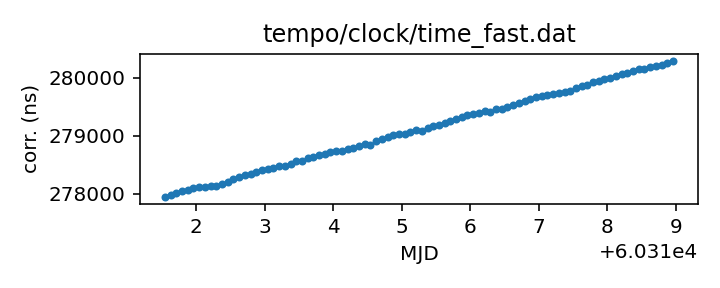
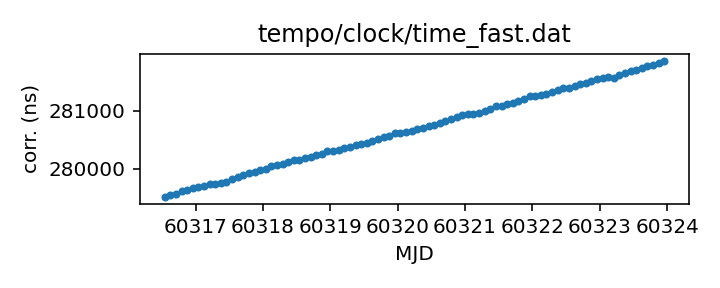
Routine gh-pages update from Github action Thu Jan 18 20:30:36 UTC 2024

diff --git a/status.md b/status.md
@@ -13,17 +13,17 @@ name of each clock file links to a page with more details.
 
 | Name | File | Corrections start | Corrections end | Last check date | Last check result 
 |:--- |:--- | --- | --- | --- |:--- 
-| [GPS to UTC](T2runtime/clock/gps2utc.clk.html) | `T2runtime/clock/gps2utc.clk` | 1993-01-01 MJD 48988.0 | 2023-12-31 MJD 60309.0 | 2024-01-17 | Unchanged 
-| [GPS to UTC (Combined Clock)](T2runtime/clock/gps2utc_cc.clk.html) | `T2runtime/clock/gps2utc_cc.clk` | 1993-01-01 MJD 48988.0 | 2023-12-31 MJD 60309.0 | 2024-01-17 | Unchanged 
-| [GPS to UTC (Corrected)](T2runtime/clock/gps2utc_c0p.clk.html) | `T2runtime/clock/gps2utc_c0p.clk` | 2010-12-29 MJD 55559.0 | 2023-12-31 MJD 60309.0 | 2024-01-17 | Unchanged 
-| [GBT](tempo/clock/time_gbt.dat.html) | `tempo/clock/time_gbt.dat` | 2000-12-31 MJD 51909.5 | 2023-03-20 MJD 60023.5 | 2024-01-17 | **Validation failed** 
+| [GPS to UTC](T2runtime/clock/gps2utc.clk.html) | `T2runtime/clock/gps2utc.clk` | 1993-01-01 MJD 48988.0 | 2023-12-31 MJD 60309.0 | 2024-01-18 | Unchanged 
+| [GPS to UTC (Combined Clock)](T2runtime/clock/gps2utc_cc.clk.html) | `T2runtime/clock/gps2utc_cc.clk` | 1993-01-01 MJD 48988.0 | 2023-12-31 MJD 60309.0 | 2024-01-18 | Unchanged 
+| [GPS to UTC (Corrected)](T2runtime/clock/gps2utc_c0p.clk.html) | `T2runtime/clock/gps2utc_c0p.clk` | 2010-12-29 MJD 55559.0 | 2023-12-31 MJD 60309.0 | 2024-01-18 | Unchanged 
+| [GBT](tempo/clock/time_gbt.dat.html) | `tempo/clock/time_gbt.dat` | 2000-12-31 MJD 51909.5 | 2023-03-20 MJD 60023.5 | 2024-01-18 | **Validation failed** 
 | [GBT (TEMPO2 converted from TEMPO)](T2runtime/clock/gbt2gps.clk.html) | `T2runtime/clock/gbt2gps.clk` | 2000-12-31 MJD 51909.5 | 2023-03-20 MJD 60023.5 | 2023-03-21 | Updated 
-| [Jodrell Bank](T2runtime/clock/jb2gps.clk.html) | `T2runtime/clock/jb2gps.clk` | 2006-10-13 MJD 54021.4 | 2023-12-04 MJD 60282.0 | 2024-01-11 | Unchanged 
-| [Jodrell Bank Roach](T2runtime/clock/jbroach2jb.clk.html) | `T2runtime/clock/jbroach2jb.clk` | 2006-10-13 MJD 54021.4 | 2018-03-20 MJD 58197.6 | 2024-01-11 | Unchanged 
-| [Jodrell Bank DFB](T2runtime/clock/jbdfb2jb.clk.html) | `T2runtime/clock/jbdfb2jb.clk` | 2006-10-13 MJD 54021.4 | 2017-05-11 MJD 57884.0 | 2024-01-11 | Unchanged 
-| [Meerkat (observatory)](T2runtime/clock/mk2utc_observatory.clk.html) | `T2runtime/clock/mk2utc_observatory.clk` | 2019-01-01 MJD 58484.0 | 2023-12-28 MJD 60307.0 | 2024-01-11 | Unchanged 
-| [Leap seconds](tempo/clock/leap.sec.html) | `tempo/clock/leap.sec` | 1972-07-01 MJD 41499.0 | 2017-01-01 MJD 57754.0 | 2024-01-17 | Unchanged 
-| [UT1 table](tempo/clock/ut1.dat.html) | `tempo/clock/ut1.dat` | 1973-01-02 MJD 41684.0 | 2025-01-18 MJD 60693.0 | 2024-01-17 | Unchanged 
+| [Jodrell Bank](T2runtime/clock/jb2gps.clk.html) | `T2runtime/clock/jb2gps.clk` | 2006-10-13 MJD 54021.4 | 2023-12-04 MJD 60282.0 | 2024-01-18 | Unchanged 
+| [Jodrell Bank Roach](T2runtime/clock/jbroach2jb.clk.html) | `T2runtime/clock/jbroach2jb.clk` | 2006-10-13 MJD 54021.4 | 2018-03-20 MJD 58197.6 | 2024-01-18 | Unchanged 
+| [Jodrell Bank DFB](T2runtime/clock/jbdfb2jb.clk.html) | `T2runtime/clock/jbdfb2jb.clk` | 2006-10-13 MJD 54021.4 | 2017-05-11 MJD 57884.0 | 2024-01-18 | Unchanged 
+| [Meerkat (observatory)](T2runtime/clock/mk2utc_observatory.clk.html) | `T2runtime/clock/mk2utc_observatory.clk` | 2019-01-01 MJD 58484.0 | 2023-12-28 MJD 60307.0 | 2024-01-18 | Unchanged 
+| [Leap seconds](tempo/clock/leap.sec.html) | `tempo/clock/leap.sec` | 1972-07-01 MJD 41499.0 | 2017-01-01 MJD 57754.0 | 2024-01-18 | Unchanged 
+| [UT1 table](tempo/clock/ut1.dat.html) | `tempo/clock/ut1.dat` | 1973-01-02 MJD 41684.0 | 2025-01-25 MJD 60700.0 | 2024-01-18 | Updated 
 
 
 
@@ -65,24 +65,24 @@ name of each clock file links to a page with more details.
 
 | Name | File | Corrections start | Corrections end | Last check date | Last check result 
 |:--- |:--- | --- | --- | --- |:--- 
-| [GPS to UTC (TEMPO2)](T2runtime/clock/gps2utc_tempo2.clk.html) | `T2runtime/clock/gps2utc_tempo2.clk` | 1996-03-27 MJD 50169.0 | 2022-10-27 MJD 59879.0 | 2024-01-11 | Unchanged 
-| [GBT (TEMPO2)](T2runtime/clock/gbt2gps_tempo2.clk.html) | `T2runtime/clock/gbt2gps_tempo2.clk` | 2000-12-31 MJD 51909.5 | 2020-02-25 MJD 58904.5 | 2024-01-11 | Unchanged 
-| [Jodrell Bank (TEMPO)](tempo/clock/time_jb.dat.html) | `tempo/clock/time_jb.dat` | 2006-10-13 MJD 54021.4 | 2019-05-13 MJD 58616.2 | 2024-01-11 | Unchanged 
-| [VLA](tempo/clock/time_vla.dat.html) | `tempo/clock/time_vla.dat` | 1990-10-27 MJD 48191.2 | 2021-03-07 MJD 59280.5 | 2024-01-11 | Unchanged 
-| [VLA (TEMPO2)](T2runtime/clock/vla2gps.clk.html) | `T2runtime/clock/vla2gps.clk` | 2015-02-01 MJD 57054.6 | 2021-03-07 MJD 59280.5 | 2024-01-11 | Unchanged 
-| [VLA to NIST](T2runtime/clock/vla2nist.clk.html) | `T2runtime/clock/vla2nist.clk` | 1990-10-27 MJD 48191.2 | 1993-11-13 MJD 49304.0 | 2024-01-11 | Unchanged 
-| [FAST](tempo/clock/time_fast.dat.html) | `tempo/clock/time_fast.dat` | 2017-07-27 MJD 57961.0 | 2024-01-09 MJD 60319.0 | 2024-01-11 | Updated 
-| [WSRT](T2runtime/clock/wsrt2gps.clk.html) | `T2runtime/clock/wsrt2gps.clk` | 1999-01-01 MJD 51179.5 | 2015-06-29 MJD 57202.1 | 2024-01-11 | Unchanged 
-| [WSRT (TEMPO)](tempo/clock/time_wsrt.dat.html) | `tempo/clock/time_wsrt.dat` | 1987-07-24 MJD 47000.0 | 2007-12-24 MJD 54458.0 | 2024-01-11 | **Validation failed** 
-| [Parkes](T2runtime/clock/pks2gps.clk.html) | `T2runtime/clock/pks2gps.clk` | 1858-11-17 MJD 0.0 | 2023-11-30 MJD 60278.1 | 2024-01-11 | Unchanged 
-| [Parkes (TEMPO)](tempo/clock/time_pks.dat.html) | `tempo/clock/time_pks.dat` | 1979-05-07 MJD 44000.0 | 2011-07-03 MJD 55745.8 | 2024-01-11 | **Validation failed** 
-| [SRT](T2runtime/clock/srt2gps.clk.html) | `T2runtime/clock/srt2gps.clk` | 2013-03-20 MJD 56371.0 | 2019-12-11 MJD 58828.0 | 2024-01-11 | Unchanged 
-| [Effelsberg](T2runtime/clock/eff2gps.clk.html) | `T2runtime/clock/eff2gps.clk` | 1993-11-29 MJD 49320.0 | 2015-06-22 MJD 57195.5 | 2024-01-11 | Unchanged 
-| [Effelsberg Asterix/PSRix](T2runtime/clock/effix2gps.clk.html) | `T2runtime/clock/effix2gps.clk` | 2011-01-01 MJD 55562.5 | 2021-03-21 MJD 59294.5 | 2024-01-11 | Unchanged 
-| [LEAP](T2runtime/clock/leap2effix.clk.html) | `T2runtime/clock/leap2effix.clk` | 2012-10-29 MJD 56230.0 | 2014-03-04 MJD 56720.0 | 2024-01-11 | Unchanged 
-| [NUPPI](tempo/clock/time_nuppi.dat.html) | `tempo/clock/time_nuppi.dat` | 2005-03-07 MJD 53436.0 | 2015-11-08 MJD 57334.6 | 2024-01-11 | Unchanged 
+| [GPS to UTC (TEMPO2)](T2runtime/clock/gps2utc_tempo2.clk.html) | `T2runtime/clock/gps2utc_tempo2.clk` | 1996-03-27 MJD 50169.0 | 2022-10-27 MJD 59879.0 | 2024-01-18 | Unchanged 
+| [GBT (TEMPO2)](T2runtime/clock/gbt2gps_tempo2.clk.html) | `T2runtime/clock/gbt2gps_tempo2.clk` | 2000-12-31 MJD 51909.5 | 2020-02-25 MJD 58904.5 | 2024-01-18 | Unchanged 
+| [Jodrell Bank (TEMPO)](tempo/clock/time_jb.dat.html) | `tempo/clock/time_jb.dat` | 2006-10-13 MJD 54021.4 | 2019-05-13 MJD 58616.2 | 2024-01-18 | Unchanged 
+| [VLA](tempo/clock/time_vla.dat.html) | `tempo/clock/time_vla.dat` | 1990-10-27 MJD 48191.2 | 2021-03-07 MJD 59280.5 | 2024-01-18 | Unchanged 
+| [VLA (TEMPO2)](T2runtime/clock/vla2gps.clk.html) | `T2runtime/clock/vla2gps.clk` | 2015-02-01 MJD 57054.6 | 2021-03-07 MJD 59280.5 | 2024-01-18 | Unchanged 
+| [VLA to NIST](T2runtime/clock/vla2nist.clk.html) | `T2runtime/clock/vla2nist.clk` | 1990-10-27 MJD 48191.2 | 1993-11-13 MJD 49304.0 | 2024-01-18 | Unchanged 
+| [FAST](tempo/clock/time_fast.dat.html) | `tempo/clock/time_fast.dat` | 2017-07-27 MJD 57961.0 | 2024-01-14 MJD 60324.0 | 2024-01-18 | Updated 
+| [WSRT](T2runtime/clock/wsrt2gps.clk.html) | `T2runtime/clock/wsrt2gps.clk` | 1999-01-01 MJD 51179.5 | 2015-06-29 MJD 57202.1 | 2024-01-18 | Unchanged 
+| [WSRT (TEMPO)](tempo/clock/time_wsrt.dat.html) | `tempo/clock/time_wsrt.dat` | 1987-07-24 MJD 47000.0 | 2007-12-24 MJD 54458.0 | 2024-01-18 | **Validation failed** 
+| [Parkes](T2runtime/clock/pks2gps.clk.html) | `T2runtime/clock/pks2gps.clk` | 1858-11-17 MJD 0.0 | 2023-11-30 MJD 60278.1 | 2024-01-18 | Unchanged 
+| [Parkes (TEMPO)](tempo/clock/time_pks.dat.html) | `tempo/clock/time_pks.dat` | 1979-05-07 MJD 44000.0 | 2011-07-03 MJD 55745.8 | 2024-01-18 | **Validation failed** 
+| [SRT](T2runtime/clock/srt2gps.clk.html) | `T2runtime/clock/srt2gps.clk` | 2013-03-20 MJD 56371.0 | 2019-12-11 MJD 58828.0 | 2024-01-18 | Unchanged 
+| [Effelsberg](T2runtime/clock/eff2gps.clk.html) | `T2runtime/clock/eff2gps.clk` | 1993-11-29 MJD 49320.0 | 2015-06-22 MJD 57195.5 | 2024-01-18 | Unchanged 
+| [Effelsberg Asterix/PSRix](T2runtime/clock/effix2gps.clk.html) | `T2runtime/clock/effix2gps.clk` | 2011-01-01 MJD 55562.5 | 2021-03-21 MJD 59294.5 | 2024-01-18 | Unchanged 
+| [LEAP](T2runtime/clock/leap2effix.clk.html) | `T2runtime/clock/leap2effix.clk` | 2012-10-29 MJD 56230.0 | 2014-03-04 MJD 56720.0 | 2024-01-18 | Unchanged 
+| [NUPPI](tempo/clock/time_nuppi.dat.html) | `tempo/clock/time_nuppi.dat` | 2005-03-07 MJD 53436.0 | 2015-11-08 MJD 57334.6 | 2024-01-18 | Unchanged 
 | [Meerkat (TEMPO2)](T2runtime/clock/mk2utc.clk.html) | `T2runtime/clock/mk2utc.clk` | 2019-01-01 MJD 58484.0 | 2023-10-18 MJD 60235.9 | 2024-01-15 | Unchanged 
-| [MOST](T2runtime/clock/mo2gps.clk.html) | `T2runtime/clock/mo2gps.clk` | 2003-12-27 MJD 53000.0 | 2018-09-06 MJD 58367.0 | 2024-01-11 | Unchanged 
+| [MOST](T2runtime/clock/mo2gps.clk.html) | `T2runtime/clock/mo2gps.clk` | 2003-12-27 MJD 53000.0 | 2018-09-06 MJD 58367.0 | 2024-01-18 | Unchanged 
 | [Nancay to obspm](T2runtime/clock/ncyobs2obspm.clk.html) | `T2runtime/clock/ncyobs2obspm.clk` | 1988-05-18 MJD 47299.6 | 2023-10-27 MJD 60244.0 | 2024-01-17 | Unchanged 
 | [obspm](T2runtime/clock/obspm2gps.clk.html) | `T2runtime/clock/obspm2gps.clk` | 2003-12-01 MJD 52974.0 | 2023-10-27 MJD 60244.0 | 2024-01-17 | Unchanged 
 

diff --git a/tempo/clock/time_pks.dat.md b/tempo/clock/time_pks.dat.md
@@ -20,12 +20,11 @@ telescopes in the same file, distinguished only by observatory code.
 | Clock file start | 1979-05-07 MJD 44000.0 |
 | Clock file end | 2011-07-03 MJD 55745.8 |
 | Update interval (days) | 7 |
-| Last update attempt | 2024-01-11 |
+| Last update attempt | 2024-01-18 |
 | Last update result | Validation failed |
 
 Log entries from the last few update attempts:
 ```
-2023-03-16 20:29:09.497 - Validation failed: Unable to read new version of tempo/clock/time_pks.dat: Clock file /tmp/astropy-download-1726-u716fwx7 appears to be out of order
 2023-03-23 20:27:47.249 - Validation failed: Unable to read new version of tempo/clock/time_pks.dat: Clock file /tmp/astropy-download-1727-75z30o3m appears to be out of order
 2023-03-30 20:27:43.704 - Validation failed: Unable to read new version of tempo/clock/time_pks.dat: Clock file /tmp/astropy-download-1765-h_b0h6bx appears to be out of order
 2023-04-06 20:26:12.085 - Validation failed: Unable to read new version of tempo/clock/time_pks.dat: Clock file /tmp/astropy-download-1741-fn3chtxf appears to be out of order
@@ -35,6 +34,7 @@ Log entries from the last few update attempts:
 2023-12-28 20:29:30.527 - Validation failed: Unable to read new version of tempo/clock/time_pks.dat: Clock file /tmp/astropy-download-1937-p5sqsqze appears to be out of order
 2024-01-04 20:29:28.434 - Validation failed: Unable to read new version of tempo/clock/time_pks.dat: Clock file /tmp/astropy-download-1932-d4kgqvo7 appears to be out of order
 2024-01-11 20:30:15.803 - Validation failed: Unable to read new version of tempo/clock/time_pks.dat: Clock file /tmp/astropy-download-1836-pi4hbxxj appears to be out of order
+2024-01-18 20:29:59.171 - Validation failed: Unable to read new version of tempo/clock/time_pks.dat: Clock file /tmp/astropy-download-1811-rrpdm8ca appears to be out of order
 ```
 [Full log](https://raw.githubusercontent.com/ipta/pulsar-clock-corrections/main/log/tempo/clock/time_pks.dat.log)
 

diff --git a/tempo/clock/time_wsrt.dat.md b/tempo/clock/time_wsrt.dat.md
@@ -20,12 +20,11 @@ should be the same information.
 | Clock file start | 1987-07-24 MJD 47000.0 |
 | Clock file end | 2007-12-24 MJD 54458.0 |
 | Update interval (days) | 7 |
-| Last update attempt | 2024-01-11 |
+| Last update attempt | 2024-01-18 |
 | Last update result | Validation failed |
 
 Log entries from the last few update attempts:
 ```
-2023-03-16 20:29:08.574 - Validation failed: Unable to read new version of tempo/clock/time_wsrt.dat: Clock file /tmp/astropy-download-1726-9go2yp7d appears to be out of order
 2023-03-23 20:27:46.835 - Validation failed: Unable to read new version of tempo/clock/time_wsrt.dat: Clock file /tmp/astropy-download-1727-rkn_otsr appears to be out of order
 2023-03-30 20:27:43.374 - Validation failed: Unable to read new version of tempo/clock/time_wsrt.dat: Clock file /tmp/astropy-download-1765-6yf73jao appears to be out of order
 2023-04-06 20:26:11.700 - Validation failed: Unable to read new version of tempo/clock/time_wsrt.dat: Clock file /tmp/astropy-download-1741-ko2umq5t appears to be out of order
@@ -35,6 +34,7 @@ Log entries from the last few update attempts:
 2023-12-28 20:29:25.846 - Validation failed: Unable to read new version of tempo/clock/time_wsrt.dat: Clock file /tmp/astropy-download-1937-w51qchpk appears to be out of order
 2024-01-04 20:29:23.796 - Validation failed: Unable to read new version of tempo/clock/time_wsrt.dat: Clock file /tmp/astropy-download-1932-fzypdoq9 appears to be out of order
 2024-01-11 20:30:10.381 - Validation failed: Unable to read new version of tempo/clock/time_wsrt.dat: Clock file /tmp/astropy-download-1836-0nvh625l appears to be out of order
+2024-01-18 20:29:55.192 - Validation failed: Unable to read new version of tempo/clock/time_wsrt.dat: Clock file /tmp/astropy-download-1811-4vnrq20h appears to be out of order
 ```
 [Full log](https://raw.githubusercontent.com/ipta/pulsar-clock-corrections/main/log/tempo/clock/time_wsrt.dat.log)
 

diff --git a/tempo/clock/time_gbt.dat.md b/tempo/clock/time_gbt.dat.md
@@ -20,12 +20,11 @@ If questions arise, contact Ryan S. Lynch <rlynch@nrao.edu>.
 | Clock file start | 2000-12-31 MJD 51909.5 |
 | Clock file end | 2023-03-20 MJD 60023.5 |
 | Update interval (days) | 1 |
-| Last update attempt | 2024-01-17 |
+| Last update attempt | 2024-01-18 |
 | Last update result | Validation failed |
 
 Log entries from the last few update attempts:
 ```
-2024-01-08 20:29:51.024 - Validation failed: New version of tempo/clock/time_gbt.dat clock corrections differ from old version where they overlap in 11 places
 2024-01-09 20:29:18.779 - Validation failed: New version of tempo/clock/time_gbt.dat clock corrections differ from old version where they overlap in 11 places
 2024-01-10 20:29:35.153 - Validation failed: New version of tempo/clock/time_gbt.dat clock corrections differ from old version where they overlap in 11 places
 2024-01-11 20:30:04.668 - Validation failed: New version of tempo/clock/time_gbt.dat clock corrections differ from old version where they overlap in 11 places
@@ -35,6 +34,7 @@ Log entries from the last few update attempts:
 2024-01-15 20:29:53.885 - Validation failed: New version of tempo/clock/time_gbt.dat clock corrections differ from old version where they overlap in 11 places
 2024-01-16 20:29:37.983 - Validation failed: New version of tempo/clock/time_gbt.dat clock corrections differ from old version where they overlap in 11 places
 2024-01-17 20:29:47.115 - Validation failed: New version of tempo/clock/time_gbt.dat clock corrections differ from old version where they overlap in 11 places
+2024-01-18 20:29:50.315 - Validation failed: New version of tempo/clock/time_gbt.dat clock corrections differ from old version where they overlap in 11 places
 ```
 [Full log](https://raw.githubusercontent.com/ipta/pulsar-clock-corrections/main/log/tempo/clock/time_gbt.dat.log)
 

diff --git a/tempo/clock/time_fast.dat.md b/tempo/clock/time_fast.dat.md
@@ -14,14 +14,13 @@ This file is pulled from the FAST_ClockFile repository.
 | Format | tempo |
 | Bogus last correction | False |
 | Clock file start | 2017-07-27 MJD 57961.0 |
-| Clock file end | 2024-01-09 MJD 60319.0 |
+| Clock file end | 2024-01-14 MJD 60324.0 |
 | Update interval (days) | 7 |
-| Last update attempt | 2024-01-11 |
+| Last update attempt | 2024-01-18 |
 | Last update result | Updated |
 
 Log entries from the last few update attempts:
 ```
-2023-03-16 20:29:07.910 - Failed to download: HTTP Error 404: Not Found
 2023-03-23 20:27:45.848 - Failed to download: HTTP Error 404: Not Found
 2023-03-30 20:27:42.186 - Failed to download: HTTP Error 404: Not Found
 2023-04-06 20:26:10.143 - Failed to download: HTTP Error 404: Not Found
@@ -31,6 +30,7 @@ Log entries from the last few update attempts:
 2023-12-28 20:29:25.400 - Updated
 2024-01-04 20:29:23.424 - Updated
 2024-01-11 20:30:09.582 - Updated
+2024-01-18 20:29:54.505 - Updated
 ```
 [Full log](https://raw.githubusercontent.com/ipta/pulsar-clock-corrections/main/log/tempo/clock/time_fast.dat.log)
 

diff --git a/tempo/clock/ut1.dat.md b/tempo/clock/ut1.dat.md
@@ -28,14 +28,13 @@ If there are any questions, contact Anne Archibald
 | File | `tempo/clock/ut1.dat` |
 | Authority | observatory |
 | File start | 1973-01-02 MJD 41684.0 |
-| File end | 2025-01-18 MJD 60693.0 |
+| File end | 2025-01-25 MJD 60700.0 |
 | Update interval (days) | 0 |
-| Last update attempt | 2024-01-17 |
-| Last update result | Unchanged |
+| Last update attempt | 2024-01-18 |
+| Last update result | Updated |
 
 Log entries from the last few update attempts:
 ```
-2024-01-08 20:30:00.950 - Unchanged
 2024-01-09 20:29:26.793 - Unchanged
 2024-01-10 20:29:44.469 - Unchanged
 2024-01-11 20:30:34.355 - Updated
@@ -45,5 +44,6 @@ Log entries from the last few update attempts:
 2024-01-15 20:30:06.848 - Unchanged
 2024-01-16 20:29:50.002 - Unchanged
 2024-01-17 20:30:00.859 - Unchanged
+2024-01-18 20:30:18.004 - Updated
 ```
 [Full log](https://raw.githubusercontent.com/ipta/pulsar-clock-corrections/main/log/tempo/clock/ut1.dat.log)

diff --git a/tempo/clock/time_vla.dat.md b/tempo/clock/time_vla.dat.md
@@ -17,12 +17,11 @@ up-to-date.
 | Clock file start | 1990-10-27 MJD 48191.2 |
 | Clock file end | 2021-03-07 MJD 59280.5 |
 | Update interval (days) | 7 |
-| Last update attempt | 2024-01-11 |
+| Last update attempt | 2024-01-18 |
 | Last update result | Unchanged |
 
 Log entries from the last few update attempts:
 ```
-2023-03-16 20:29:07.737 - Failed to download: HTTP Error 404: Not Found
 2023-03-23 20:27:45.649 - Failed to download: HTTP Error 404: Not Found
 2023-03-30 20:27:41.991 - Failed to download: HTTP Error 404: Not Found
 2023-04-06 20:26:09.970 - Failed to download: HTTP Error 404: Not Found
@@ -32,6 +31,7 @@ Log entries from the last few update attempts:
 2023-12-28 20:29:21.582 - Unchanged
 2024-01-04 20:29:22.853 - Unchanged
 2024-01-11 20:30:08.080 - Unchanged
+2024-01-18 20:29:53.321 - Unchanged
 ```
 [Full log](https://raw.githubusercontent.com/ipta/pulsar-clock-corrections/main/log/tempo/clock/time_vla.dat.log)
 

diff --git a/T2runtime/clock/gps2utc.clk.md b/T2runtime/clock/gps2utc.clk.md
@@ -32,12 +32,11 @@ about the BIPM's published corrections, contact <tai@bipm.org>.
 | Clock file start | 1993-01-01 MJD 48988.0 |
 | Clock file end | 2023-12-31 MJD 60309.0 |
 | Update interval (days) | 1 |
-| Last update attempt | 2024-01-17 |
+| Last update attempt | 2024-01-18 |
 | Last update result | Unchanged |
 
 Log entries from the last few update attempts:
 ```
-2024-01-08 20:29:50.392 - Unchanged
 2024-01-09 20:29:18.350 - Unchanged
 2024-01-10 20:29:34.541 - Unchanged
 2024-01-11 20:29:50.130 - Failed to download: <urlopen error timed out>
@@ -47,6 +46,7 @@ Log entries from the last few update attempts:
 2024-01-15 20:29:52.951 - Unchanged
 2024-01-16 20:29:37.112 - Unchanged
 2024-01-17 20:29:46.157 - Unchanged
+2024-01-18 20:29:49.362 - Unchanged
 ```
 [Full log](https://raw.githubusercontent.com/ipta/pulsar-clock-corrections/main/log/T2runtime/clock/gps2utc.clk.log)
 

diff --git a/T2runtime/clock/mk2utc_observatory.clk.md b/T2runtime/clock/mk2utc_observatory.clk.md
@@ -21,12 +21,11 @@ If questions arise, contact Ryan Shannon <rshannon@swin.edu.au>
 | Clock file start | 2019-01-01 MJD 58484.0 |
 | Clock file end | 2023-12-28 MJD 60307.0 |
 | Update interval (days) | 7 |
-| Last update attempt | 2024-01-11 |
+| Last update attempt | 2024-01-18 |
 | Last update result | Unchanged |
 
 Log entries from the last few update attempts:
 ```
-2023-03-20 20:27:20.432 - Unchanged
 2023-03-27 20:29:30.861 - Unchanged
 2023-04-03 20:26:07.931 - Unchanged
 2023-04-10 20:26:10.263 - Unchanged
@@ -36,6 +35,7 @@ Log entries from the last few update attempts:
 2023-12-28 20:29:34.840 - Unchanged
 2024-01-04 20:29:32.776 - Updated
 2024-01-11 20:30:22.102 - Unchanged
+2024-01-18 20:30:05.250 - Unchanged
 ```
 [Full log](https://raw.githubusercontent.com/ipta/pulsar-clock-corrections/main/log/T2runtime/clock/mk2utc_observatory.clk.log)
 

diff --git a/T2runtime/clock/gps2utc_c0p.clk.md b/T2runtime/clock/gps2utc_c0p.clk.md
@@ -30,12 +30,11 @@ about the BIPM's published corrections, contact <tai@bipm.org>.
 | Clock file start | 2010-12-29 MJD 55559.0 |
 | Clock file end | 2023-12-31 MJD 60309.0 |
 | Update interval (days) | 1 |
-| Last update attempt | 2024-01-17 |
+| Last update attempt | 2024-01-18 |
 | Last update result | Unchanged |
 
 Log entries from the last few update attempts:
 ```
-2024-01-08 20:29:50.430 - Unchanged
 2024-01-09 20:29:18.399 - Unchanged
 2024-01-10 20:29:34.579 - Unchanged
 2024-01-11 20:30:03.651 - Updated
@@ -45,6 +44,7 @@ Log entries from the last few update attempts:
 2024-01-15 20:29:52.985 - Unchanged
 2024-01-16 20:29:37.146 - Unchanged
 2024-01-17 20:29:46.192 - Unchanged
+2024-01-18 20:29:49.398 - Unchanged
 ```
 [Full log](https://raw.githubusercontent.com/ipta/pulsar-clock-corrections/main/log/T2runtime/clock/gps2utc_c0p.clk.log)
 

diff --git a/T2runtime/clock/gps2utc_cc.clk.md b/T2runtime/clock/gps2utc_cc.clk.md
@@ -29,12 +29,11 @@ about the BIPM's published corrections, contact <tai@bipm.org>.
 | Clock file start | 1993-01-01 MJD 48988.0 |
 | Clock file end | 2023-12-31 MJD 60309.0 |
 | Update interval (days) | 1 |
-| Last update attempt | 2024-01-17 |
+| Last update attempt | 2024-01-18 |
 | Last update result | Unchanged |
 
 Log entries from the last few update attempts:
 ```
-2024-01-08 20:29:50.419 - Unchanged
 2024-01-09 20:29:18.384 - Unchanged
 2024-01-10 20:29:34.568 - Unchanged
 2024-01-11 20:30:03.626 - Updated
@@ -44,6 +43,7 @@ Log entries from the last few update attempts:
 2024-01-15 20:29:52.976 - Unchanged
 2024-01-16 20:29:37.137 - Unchanged
 2024-01-17 20:29:46.183 - Unchanged
+2024-01-18 20:29:49.388 - Unchanged
 ```
 [Full log](https://raw.githubusercontent.com/ipta/pulsar-clock-corrections/main/log/T2runtime/clock/gps2utc_cc.clk.log)
 

diff --git a/T2runtime/clock/leap2effix.clk.md b/T2runtime/clock/leap2effix.clk.md
@@ -23,12 +23,11 @@ thus here) can be expected to be somewhat up to date.
 | Clock file start | 2012-10-29 MJD 56230.0 |
 | Clock file end | 2014-03-04 MJD 56720.0 |
 | Update interval (days) | 7 |
-| Last update attempt | 2024-01-11 |
+| Last update attempt | 2024-01-18 |
 | Last update result | Unchanged |
 
 Log entries from the last few update attempts:
 ```
-2023-03-17 20:28:55.584 - Unchanged
 2023-03-24 20:27:47.633 - Unchanged
 2023-03-31 20:25:40.251 - Unchanged
 2023-04-07 20:25:42.577 - Unchanged
@@ -38,6 +37,7 @@ Log entries from the last few update attempts:
 2023-12-28 20:29:31.168 - Unchanged
 2024-01-04 20:29:29.091 - Unchanged
 2024-01-11 20:30:17.855 - Unchanged
+2024-01-18 20:30:00.964 - Unchanged
 ```
 [Full log](https://raw.githubusercontent.com/ipta/pulsar-clock-corrections/main/log/T2runtime/clock/leap2effix.clk.log)
 
